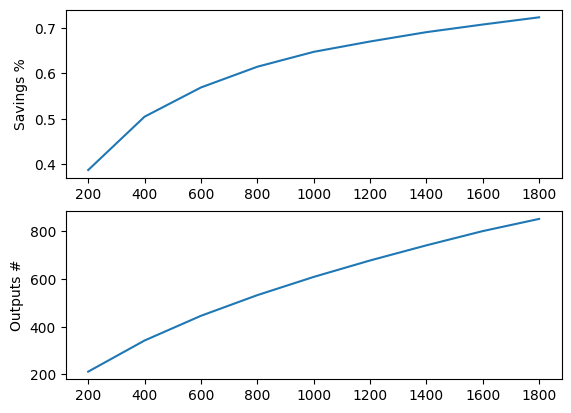
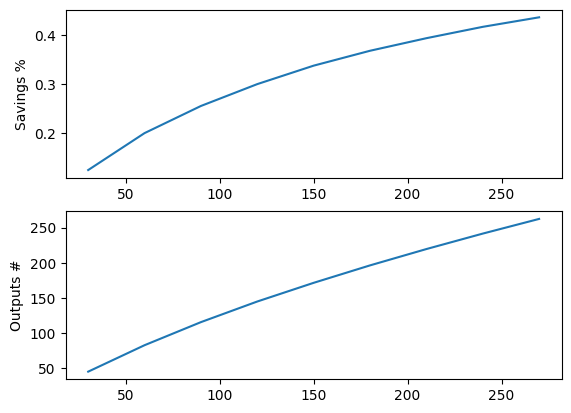
Makefile for the python

diff --git a/batchsim.py b/batchsim.py
@@ -47,7 +47,7 @@ savings_y2 = []
 savings_x = []
 
 for block in tqdm(range(1, 10)):
-    granularity = 200
+    granularity = 30
     y1, y2 = sim(block * granularity)
     savings_y1.append(y1)
     savings_y2.append(y2)

diff --git a/README.md b/README.md
@@ -1,0 +1,28 @@
+# Analysis of Service Node batching
+
+Simulates the block outputs before and after batching of SN rewards.
+
+Uses `getcontributors.py` to generate `contributors-dump.json` which has already been generated. But this will call the RPC method on a daemon running at public.loki.foundation to get a list of contributors.
+
+Then `batchsim.py` builds the simulation to output the `batched_savings.png` graph. Optionally viewed in `index.html`
+
+## Running
+Uses python3 with pip modules stored in `requirements.txt`
+
+install using 
+```
+pip3 install -r requirements
+```
+
+and run using
+```
+python3 batchsim.py
+```
+
+## Makefile
+if you have virtualenv on your path you can call
+```
+make run
+```
+
+which will build a virtualenv specific for this project in the `venv` folder. Will also run using that environment
